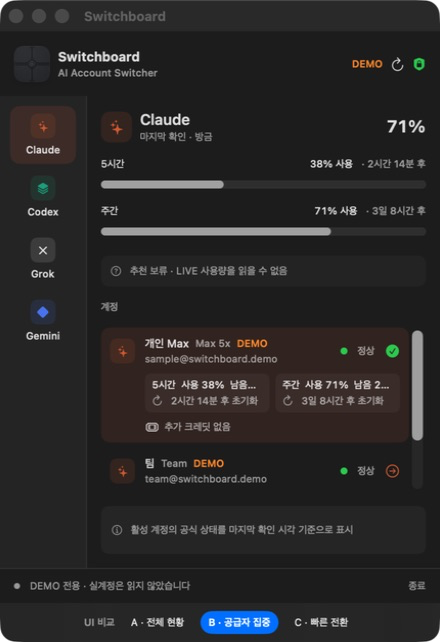
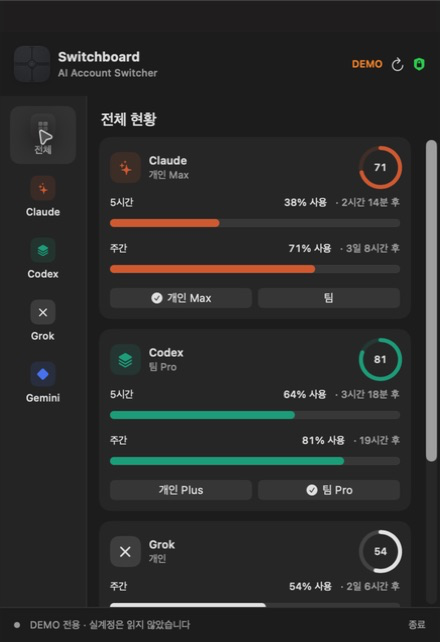
feat: simplify Switchboard navigation

diff --git a/prototype/switchboard-menubar/Sources/main.swift b/prototype/switchboard-menubar/Sources/main.swift
@@ -145,7 +145,6 @@ struct ProviderState: Identifiable {
 final class PrototypeStore: ObservableObject {
     @Published var providers: [ProviderState] = PrototypeStore.samples
     @Published var selectedProvider: ProviderID = .claude
-    @Published var query = ""
     @Published var lastEvent = "상태를 읽었습니다 · 방금"
     @Published var dataMode = "DEMO"
     @Published var switchingAccountID: String?
@@ -361,18 +360,6 @@ final class PrototypeStore: ObservableObject {
         }
     }
 
-    var filteredAccounts: [(ProviderID, Account)] {
-        let all = providers.flatMap { provider in
-            provider.accounts.map { (provider.id, $0) }
-        }
-        guard !query.isEmpty else { return all }
-        return all.filter { provider, account in
-            [provider.rawValue, account.name, account.email, account.plan]
-                .joined(separator: " ")
-                .localizedCaseInsensitiveContains(query)
-        }
-    }
-
     private static let samples: [ProviderState] = [
         ProviderState(
             id: .claude,
@@ -508,22 +495,6 @@ private struct LiveBenefit: Decodable {
     let isExpiringSoon: Bool
 }
 
-enum PrototypeVariant: String, CaseIterable, Identifiable {
-    case overview = "A"
-    case focus = "B"
-    case quickSwitch = "C"
-
-    var id: String { rawValue }
-
-    var title: String {
-        switch self {
-        case .overview: "전체 현황"
-        case .focus: "공급자 집중"
-        case .quickSwitch: "빠른 전환"
-        }
-    }
-}
-
 @main
 struct SwitchboardPrototypeApp: App {
     @NSApplicationDelegateAdaptor(PrototypeAppDelegate.self) private var appDelegate
@@ -558,27 +529,13 @@ final class PrototypeAppDelegate: NSObject, NSApplicationDelegate {
 
 struct RootView: View {
     @ObservedObject var store: PrototypeStore
-    @AppStorage("prototypeVariantV2") private var variantRaw = PrototypeVariant.focus.rawValue
-
-    private var variant: PrototypeVariant {
-        PrototypeVariant(rawValue: variantRaw) ?? .overview
-    }
 
     var body: some View {
         VStack(spacing: 0) {
             HeaderView(store: store)
 
-            Group {
-                switch variant {
-                case .overview:
-                    OverviewVariant(store: store)
-                case .focus:
-                    FocusVariant(store: store)
-                case .quickSwitch:
-                    QuickSwitchVariant(store: store)
-                }
-            }
-            .frame(maxWidth: .infinity, maxHeight: .infinity)
+            FocusVariant(store: store)
+                .frame(maxWidth: .infinity, maxHeight: .infinity)
 
             Divider()
             HStack(spacing: 10) {
@@ -598,9 +555,8 @@ struct RootView: View {
             .padding(.horizontal, 14)
             .frame(height: 34)
 
-            VariantSwitcher(selection: $variantRaw)
         }
-        .frame(width: variant == .focus ? 440 : 390, height: variant == .overview ? 610 : 610)
+        .frame(width: 440, height: 610)
         .background(Color(nsColor: .windowBackgroundColor))
     }
 }
@@ -733,12 +689,33 @@ struct ProviderCard: View {
 
 struct FocusVariant: View {
     @ObservedObject var store: PrototypeStore
+    @State private var showsOverview = false
 
     var body: some View {
         HStack(spacing: 0) {
             VStack(spacing: 4) {
+                Button {
+                    showsOverview = true
+                } label: {
+                    VStack(spacing: 5) {
+                        Image(systemName: "square.grid.2x2.fill")
+                            .font(.caption.bold())
+                            .foregroundStyle(.secondary)
+                            .frame(width: 25, height: 25)
+                            .background(.secondary.opacity(0.10), in: RoundedRectangle(cornerRadius: 7))
+                        Text("전체").font(.caption2)
+                    }
+                    .frame(width: 66, height: 58)
+                    .background(
+                        showsOverview ? Color.secondary.opacity(0.12) : Color.clear,
+                        in: RoundedRectangle(cornerRadius: 10)
+                    )
+                }
+                .buttonStyle(.plain)
+
                 ForEach(ProviderID.allCases) { id in
                     Button {
+                        showsOverview = false
                         store.selectedProvider = id
                     } label: {
                         VStack(spacing: 5) {
@@ -747,7 +724,7 @@ struct FocusVariant: View {
                         }
                         .frame(width: 66, height: 58)
                         .background(
-                            id == store.selectedProvider ? id.tint.opacity(0.14) : Color.clear,
+                            !showsOverview && id == store.selectedProvider ? id.tint.opacity(0.14) : Color.clear,
                             in: RoundedRectangle(cornerRadius: 10)
                         )
                     }
@@ -760,12 +737,22 @@ struct FocusVariant: View {
 
             Divider()
 
-            ProviderDetail(
-                provider: store.provider(store.selectedProvider),
-                onSwitch: { store.switchAccount(provider: store.selectedProvider, accountID: $0) },
-                onLaunchGrok: { store.launchGrok(grokHome: $0) }
-            )
-            .padding(14)
+            if showsOverview {
+                VStack(alignment: .leading, spacing: 8) {
+                    Text("전체 현황")
+                        .font(.title3.bold())
+                        .padding(.horizontal, 14)
+                        .padding(.top, 14)
+                    OverviewVariant(store: store)
+                }
+            } else {
+                ProviderDetail(
+                    provider: store.provider(store.selectedProvider),
+                    onSwitch: { store.switchAccount(provider: store.selectedProvider, accountID: $0) },
+                    onLaunchGrok: { store.launchGrok(grokHome: $0) }
+                )
+                .padding(14)
+            }
         }
     }
 }
@@ -863,44 +850,6 @@ struct ProviderDetail: View {
             .padding(10)
             .frame(maxWidth: .infinity, minHeight: 48, alignment: .leading)
             .background(.quaternary.opacity(0.4), in: RoundedRectangle(cornerRadius: 8))
-        }
-    }
-}
-
-struct QuickSwitchVariant: View {
-    @ObservedObject var store: PrototypeStore
-
-    var body: some View {
-        VStack(spacing: 10) {
-            HStack {
-                Image(systemName: "magnifyingglass")
-                    .foregroundStyle(.secondary)
-                TextField("공급자, 계정, 이메일 검색", text: $store.query)
-                    .textFieldStyle(.plain)
-            }
-            .padding(10)
-            .background(.quaternary.opacity(0.55), in: RoundedRectangle(cornerRadius: 10))
-            .padding(.horizontal, 12)
-
-            ScrollView {
-                LazyVStack(spacing: 5) {
-                    ForEach(store.filteredAccounts, id: \.1.id) { provider, account in
-                        let providerState = store.provider(provider)
-                        AccountRow(
-                            provider: provider,
-                            account: account,
-                            isActive: providerState.activeAccountID == account.id,
-                            action: { store.switchAccount(provider: provider, accountID: account.id) }
-                        )
-                    }
-                }
-                .padding(.horizontal, 12)
-            }
-
-            Text("Claude/Codex만 전환 후 공식 readback으로 확인합니다")
-                .font(.caption2)
-                .foregroundStyle(.secondary)
-                .padding(.bottom, 4)
         }
     }
 }
@@ -1127,36 +1076,5 @@ struct UsageLine: View {
             ProgressView(value: Double(window.usedPercent), total: 100)
                 .tint(window.usedPercent >= 85 ? .red : tint)
         }
-    }
-}
-
-struct VariantSwitcher: View {
-    @Binding var selection: String
-
-    var body: some View {
-        HStack(spacing: 8) {
-            Text("UI 비교")
-                .font(.caption2.bold())
-                .foregroundStyle(.secondary)
-            ForEach(PrototypeVariant.allCases) { variant in
-                Button {
-                    selection = variant.rawValue
-                } label: {
-                    Text("\(variant.rawValue) · \(variant.title)")
-                        .font(.caption2.weight(selection == variant.rawValue ? .semibold : .regular))
-                        .padding(.horizontal, 8)
-                        .padding(.vertical, 5)
-                        .background(
-                            selection == variant.rawValue ? Color.accentColor : Color.clear,
-                            in: Capsule()
-                        )
-                        .foregroundStyle(selection == variant.rawValue ? Color.white : Color.primary)
-                }
-                .buttonStyle(.plain)
-            }
-        }
-        .padding(8)
-        .frame(maxWidth: .infinity)
-        .background(.ultraThinMaterial)
     }
 }

diff --git a/prototype/switchboard-menubar/README.md b/prototype/switchboard-menubar/README.md
@@ -38,6 +38,10 @@ cd prototype/switchboard-menubar
 
 `run.sh`는 빌드 후 GPT Image로 제작한 무광 Switchboard 아이콘을 포함한 `.build/Switchboard.app`을 만들고 실행합니다. 앱 종료는 팝오버 하단의 `종료`를 누릅니다.
 
+배포 UI는 공급자 집중 화면 하나를 사용합니다. 왼쪽 `전체`에서 네 공급자의
+요약을 함께 보고, 공급자 항목을 누르면 계정별 상세·전환 화면으로 이동합니다.
+프로토타입 비교용 A/B/C 선택기는 배포 앱에 포함하지 않습니다.
+
 자동 UI 검증이나 큰 화면 미리보기가 필요하면 `./run.sh --preview`로 같은 콘텐츠를 일반 창에도 띄울 수 있습니다. 캡처에는 반드시 아래처럼 `--demo-only`를 함께 사용합니다. 이 모드는 live snapshot 실행 자체를 생략하고 익명 예시 데이터만 표시합니다.
 
 ```bash
